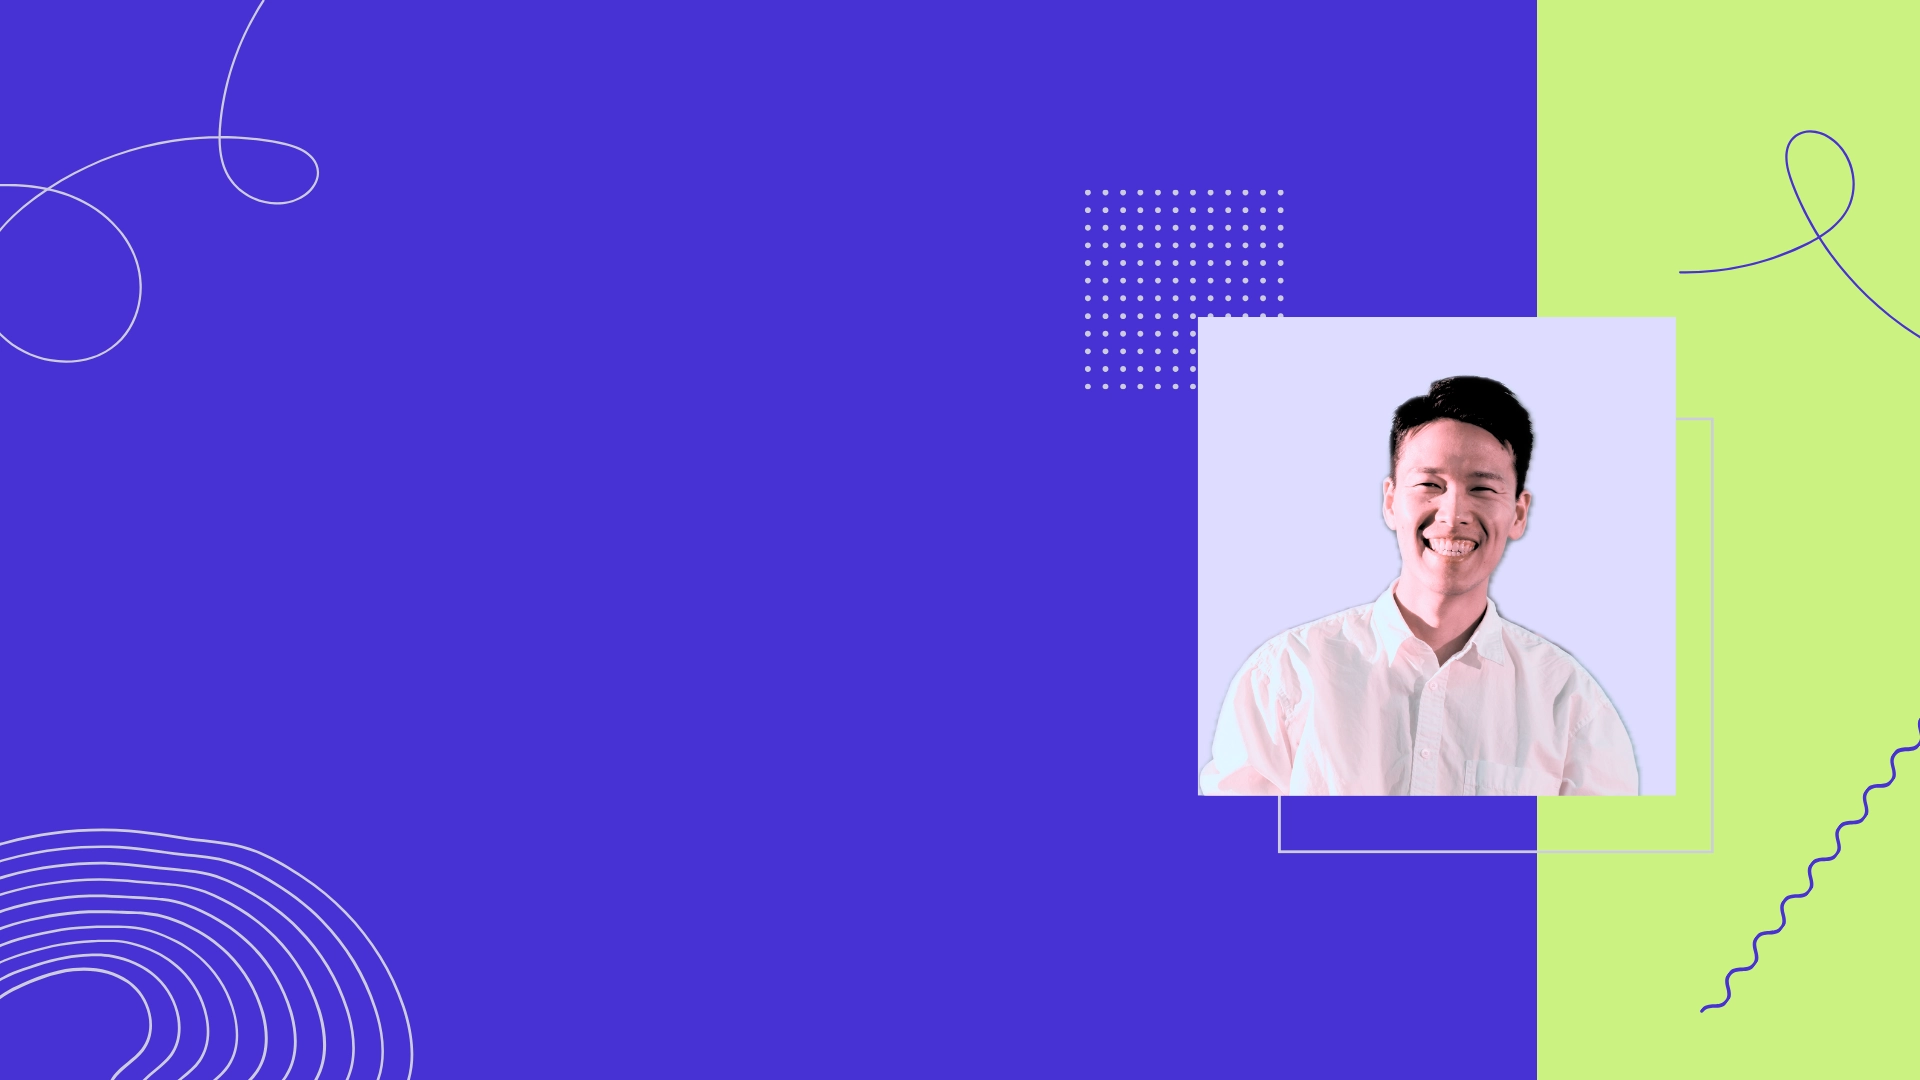
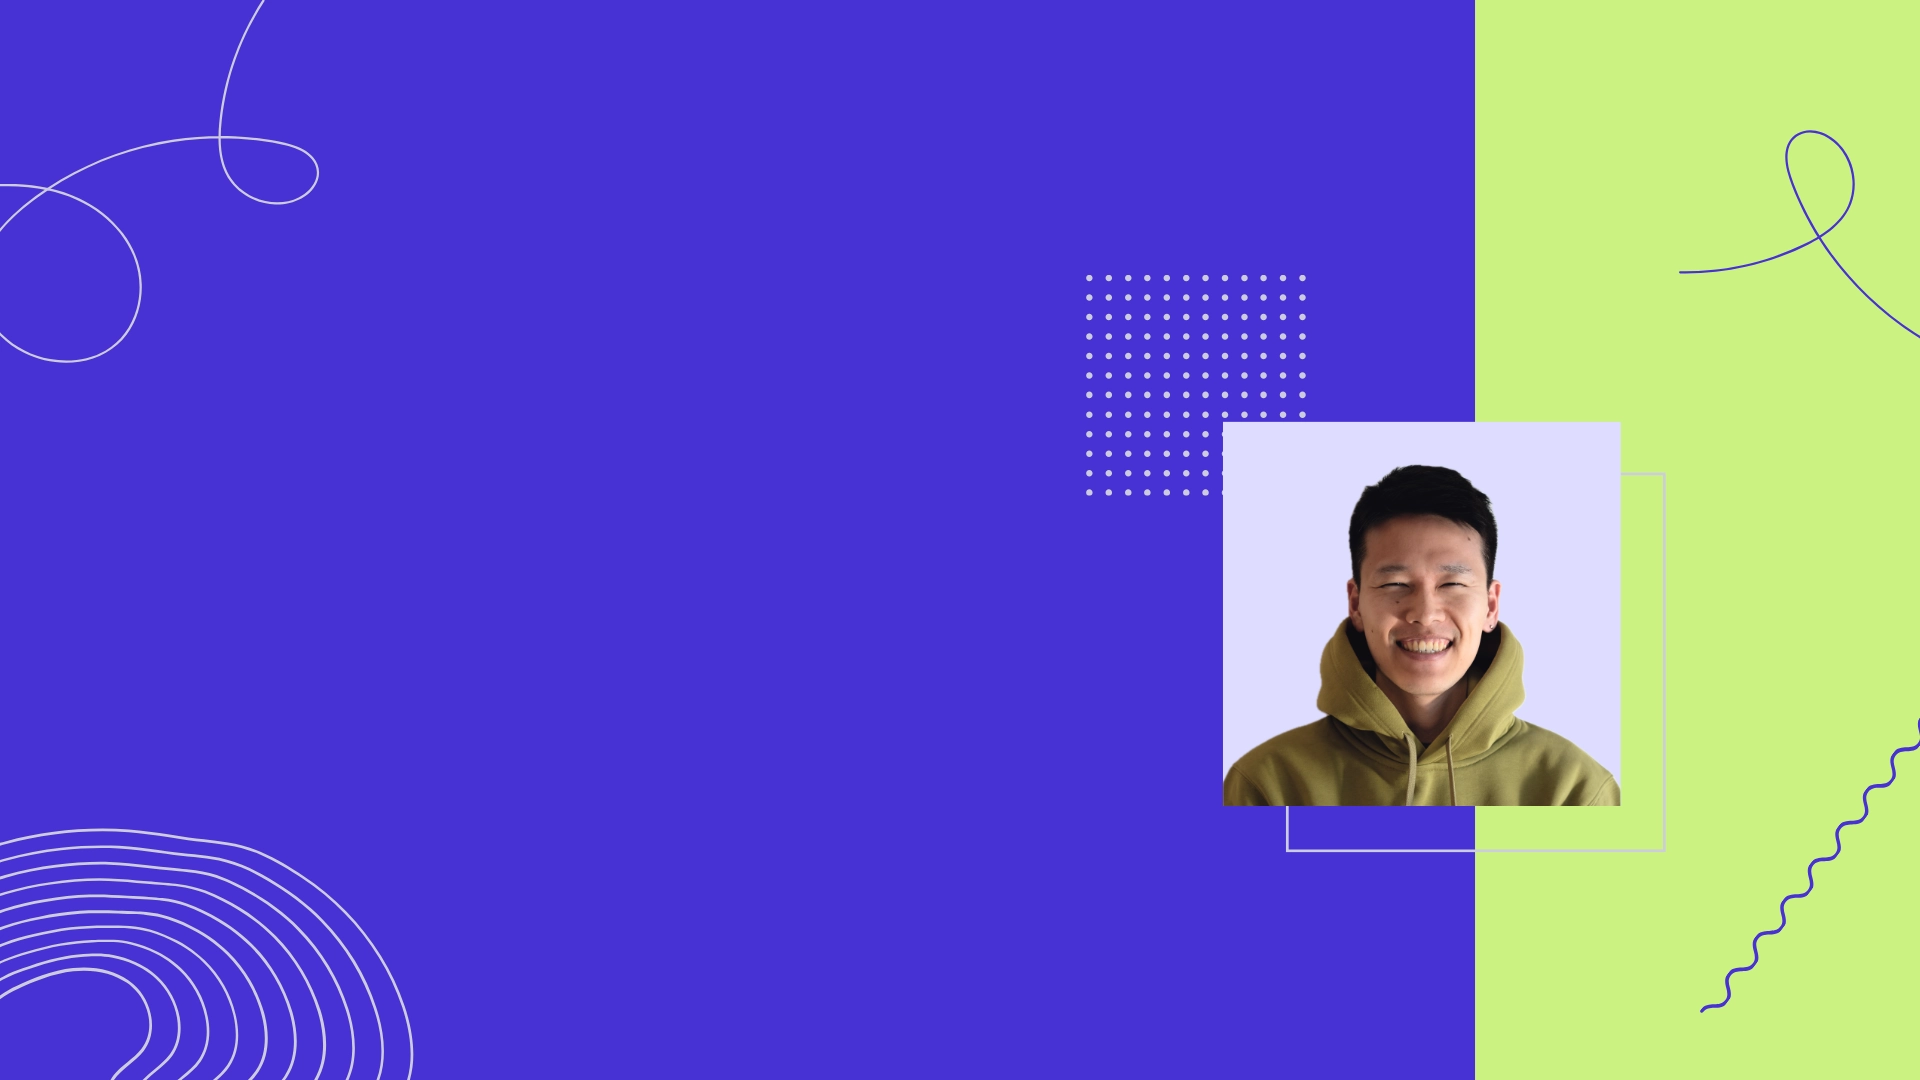
changed hero section design and photo

Changed region(s): [[0.5625, 0.0, 0.9062, 1.0]]

diff --git a/src/components/Hero.tsx b/src/components/Hero.tsx
@@ -19,7 +19,7 @@ const Hero = ({}) => {
           <div className="w-full md:w-2/3 mb-[7rem] md:mb-0">
             <h1 className="text-mainYellow text-[11vw] sm:text-[4.5rem] md:text-[5.5rem]  tracking-tighter leading-[9vw] sm:leading-[70px] md:leading-[90px] max-xs:mt-10 drop-shadow-lg ">
               <div className={`${rubik.className} flex flex-col`}>
-                <div className="flex ">
+                <div className="flex -ml-1">
                   {heroTitle1.map((letter, index) => {
                     return (
                       <motion.div
@@ -61,7 +61,7 @@ const Hero = ({}) => {
                     );
                   })}
                 </div>
-                <div className="flex">
+                <div className="flex -ml-1">
                   {heroTitle2.map((letter, index) => {
                     return (
                       <motion.div
@@ -106,7 +106,7 @@ const Hero = ({}) => {
               </div>
             </h1>
             <motion.h3
-              className={`${currentFont.className} mt-1 leading-[1rem]  sm:leading-1 md:leading-6 text-fontGray text-[.7rem] sm:text-[1rem] w-[80%] ml-3`}
+              className={`${currentFont.className} mt-1 leading-[1rem]  sm:leading-1 md:leading-6 text-fontGray text-[.7rem] sm:text-[1rem] w-[80%] `}
               initial={{ opacity: 0, y: "70%" }}
               animate={{ opacity: 1, y: 0 }}
               transition={{ duration: 0.3, delay: 0.6 }}
@@ -121,7 +121,7 @@ const Hero = ({}) => {
               animate={{ opacity: 1, y: 0 }}
               transition={{ duration: 0.3, delay: 0.6 }}
             >
-              <Button additionalClass="ml-3">
+              <Button>
                 <Link
                   href="https://drive.google.com/file/d/1TwaLWXM29RUKLkFSjQZsI6g7E7A9HUKT/view?usp=drive_link"
                   target="_blank"

diff --git a/src/components/button/Button.tsx b/src/components/button/Button.tsx
@@ -24,7 +24,7 @@ const Button: React.FC<ButtonProps> = ({
   const currentFont = i18n.language === "ja" ? japanese : hind;
   return (
     <button
-      className={` hover:outline hover:outline-mainBlue ${
+      className={`flex justify-center items-center hover:outline hover:outline-mainBlue ${
         bgColor ? bgColor : "bg-mainYellow"
       } text-center px-3 py-2 md:px-3 hover:bg-patternGray ${
         bgColor ? "text-fontFray hover:text-mainBlue" : "text-mainBlue"
@@ -34,7 +34,7 @@ const Button: React.FC<ButtonProps> = ({
       disabled={isSubmitting}
       onClick={onClick}
     >
-      {children}
+      <span className="mt-[0.5px]">{children}</span>
     </button>
   );
 };

diff --git a/src/components/title/AccentSpan.tsx b/src/components/title/AccentSpan.tsx
@@ -8,7 +8,6 @@ type AccentSpanProps = {
 
 const AccentSpan: React.FC<AccentSpanProps> = ({ children }) => {
   const { i18n } = useTranslation();
-  console.log(i18n.language);
 
   const fontSize =
     i18n.language === "en"
